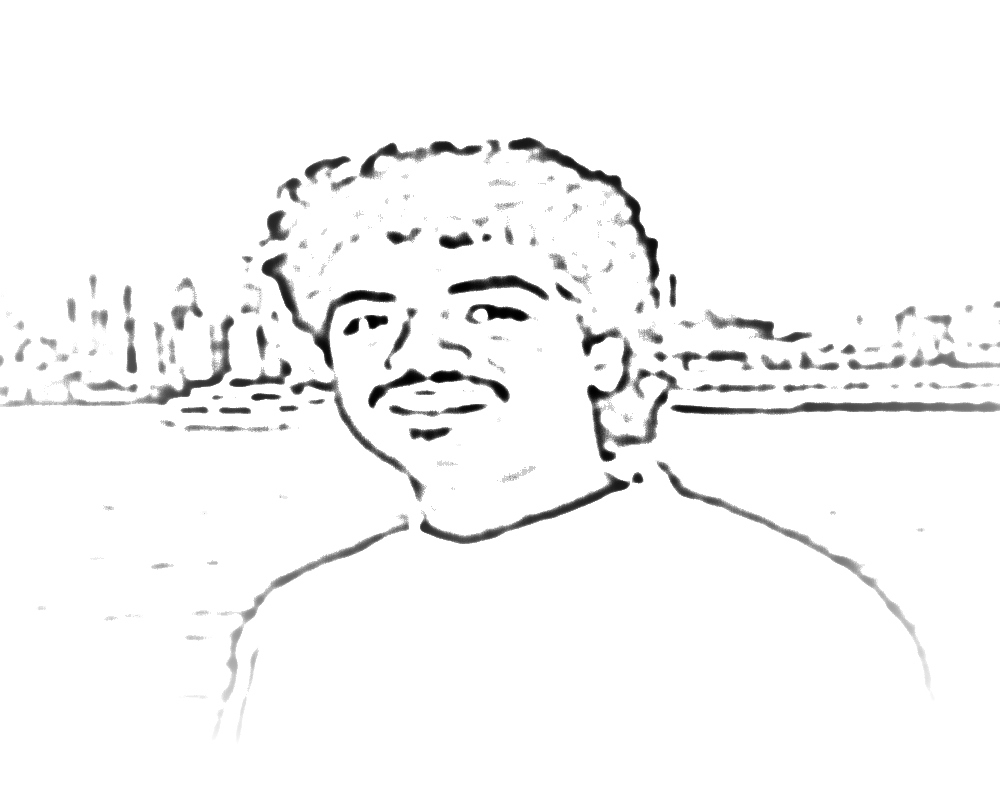
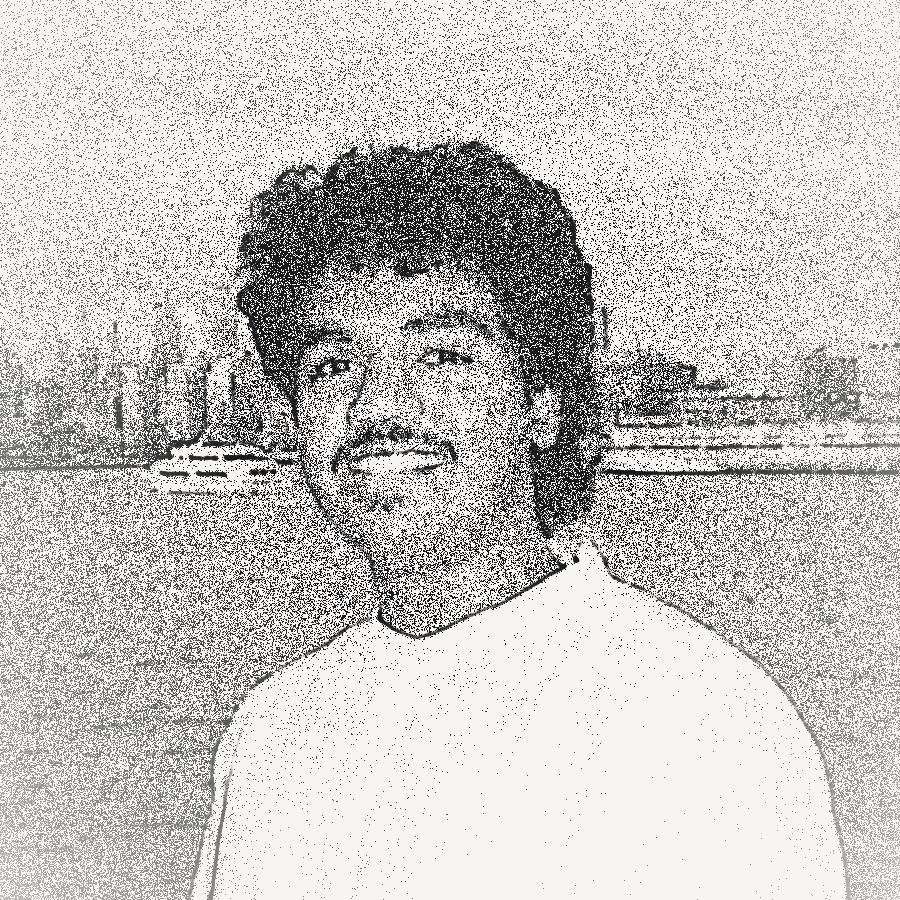
fix: redo the portrait as a stippled print
The XDoG version traced contours only and discarded tone, which is why it
looked empty. Stippling plus contour lines keeps the shading, so the face,
hair and skyline all survive.

Tonal techniques cannot ride the palette the way the line-art masks do.
Ink density encodes brightness, so painting it in the foreground color over
a dark background inverted the image: dark hair went bright, the white
shirt went black. This one ships opaque with its own paper and sits in a
bordered frame, so it reads identically in all 54 palettes.

diff --git a/components/sections/contact.tsx b/components/sections/contact.tsx
@@ -1,3 +1,4 @@
+import Image from "next/image"
 import { Mail, Github, Linkedin, MapPin, FileJson } from "lucide-react"
 import { Art } from "@/components/art"
 
@@ -17,17 +18,24 @@ export function ContactSection() {
           </p>
         </div>
 
-        {/* Drawn from a real photo, run through the same mask pipeline as the
-            rest of the art so it takes on whichever palette is active. */}
-        <div className="mt-8 sm:mt-0 max-w-[220px]">
-          <Art
-            src="/art/portrait.png"
-            alt="Line-drawn portrait of Kartik Gounder with the Manhattan skyline behind him"
-            width={1000}
-            height={800}
-            className="w-full"
-          />
-          <p className="mt-1 text-[11px] font-mono text-muted-foreground text-center">
+        {/*
+          Unlike the line-art masks, this one ships opaque and carries its own
+          paper. Stippling encodes brightness as ink density, so painting it in
+          the palette's foreground over a dark background would render it as a
+          photographic negative: dark hair bright, white shirt black. Framed as
+          a print instead, it reads the same in all 54 palettes.
+        */}
+        <div className="mt-8 sm:mt-0 max-w-[240px]">
+          <div className="rounded-lg border border-border bg-card p-2 shadow-sm">
+            <Image
+              src="/art/portrait.png"
+              alt="Stippled portrait of Kartik Gounder with the Manhattan skyline behind him"
+              width={900}
+              height={900}
+              className="w-full rounded-sm"
+            />
+          </div>
+          <p className="mt-2 text-[11px] font-mono text-muted-foreground text-center">
             {"// hi, that's me"}
           </p>
         </div>
